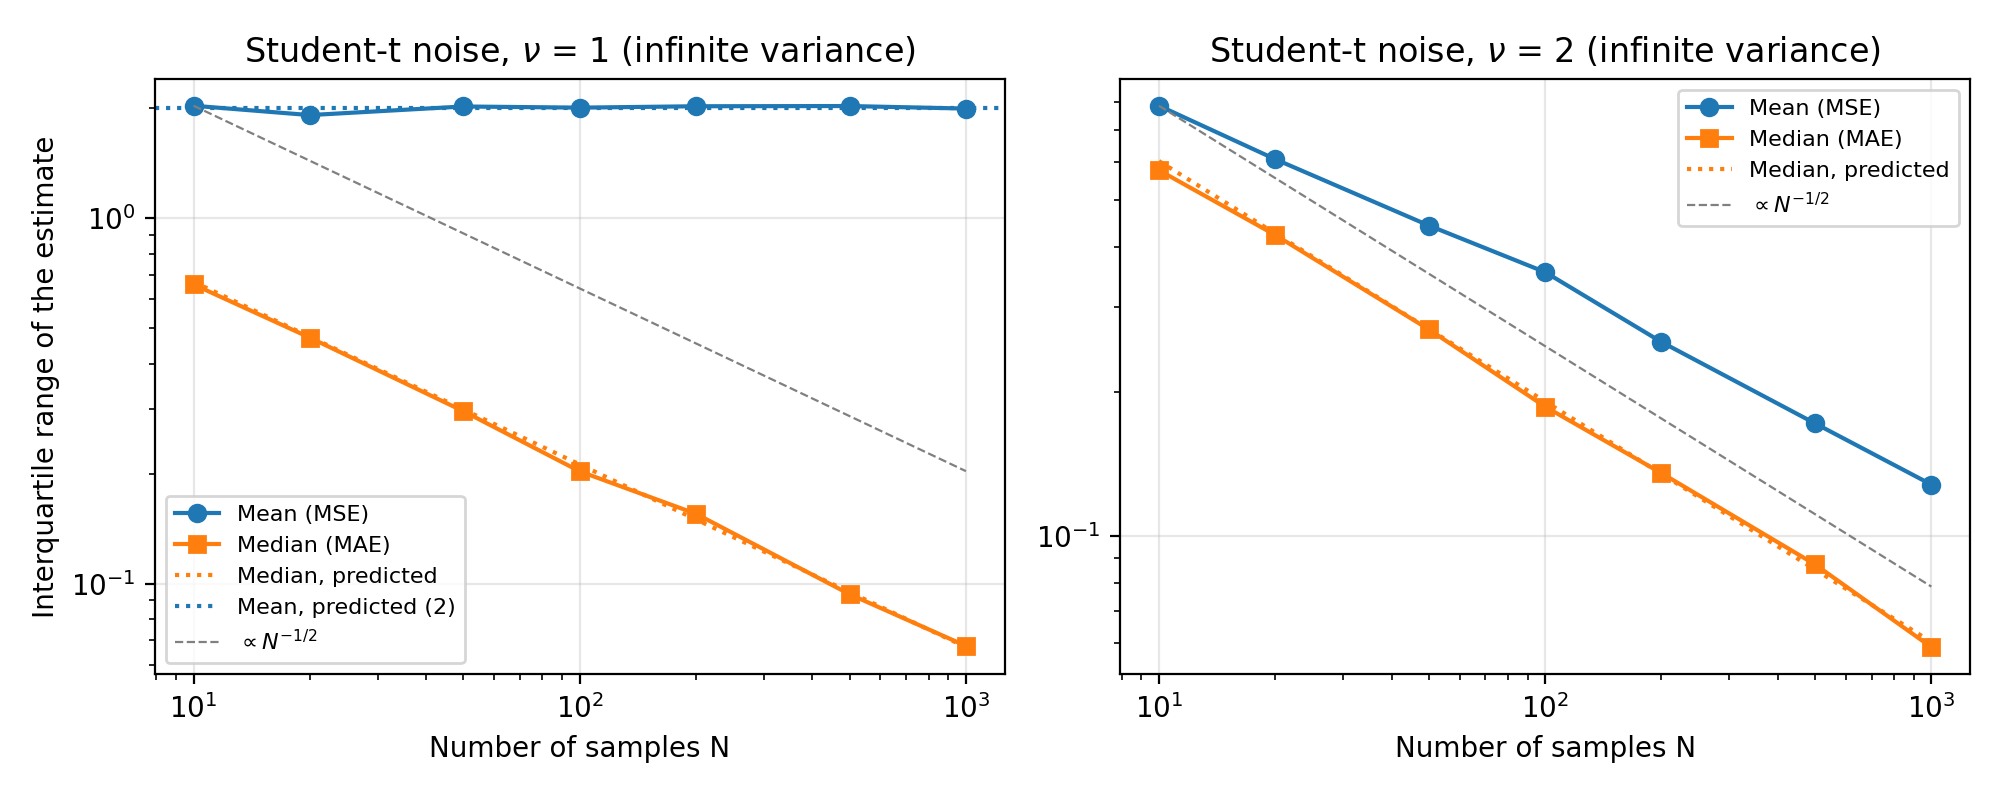
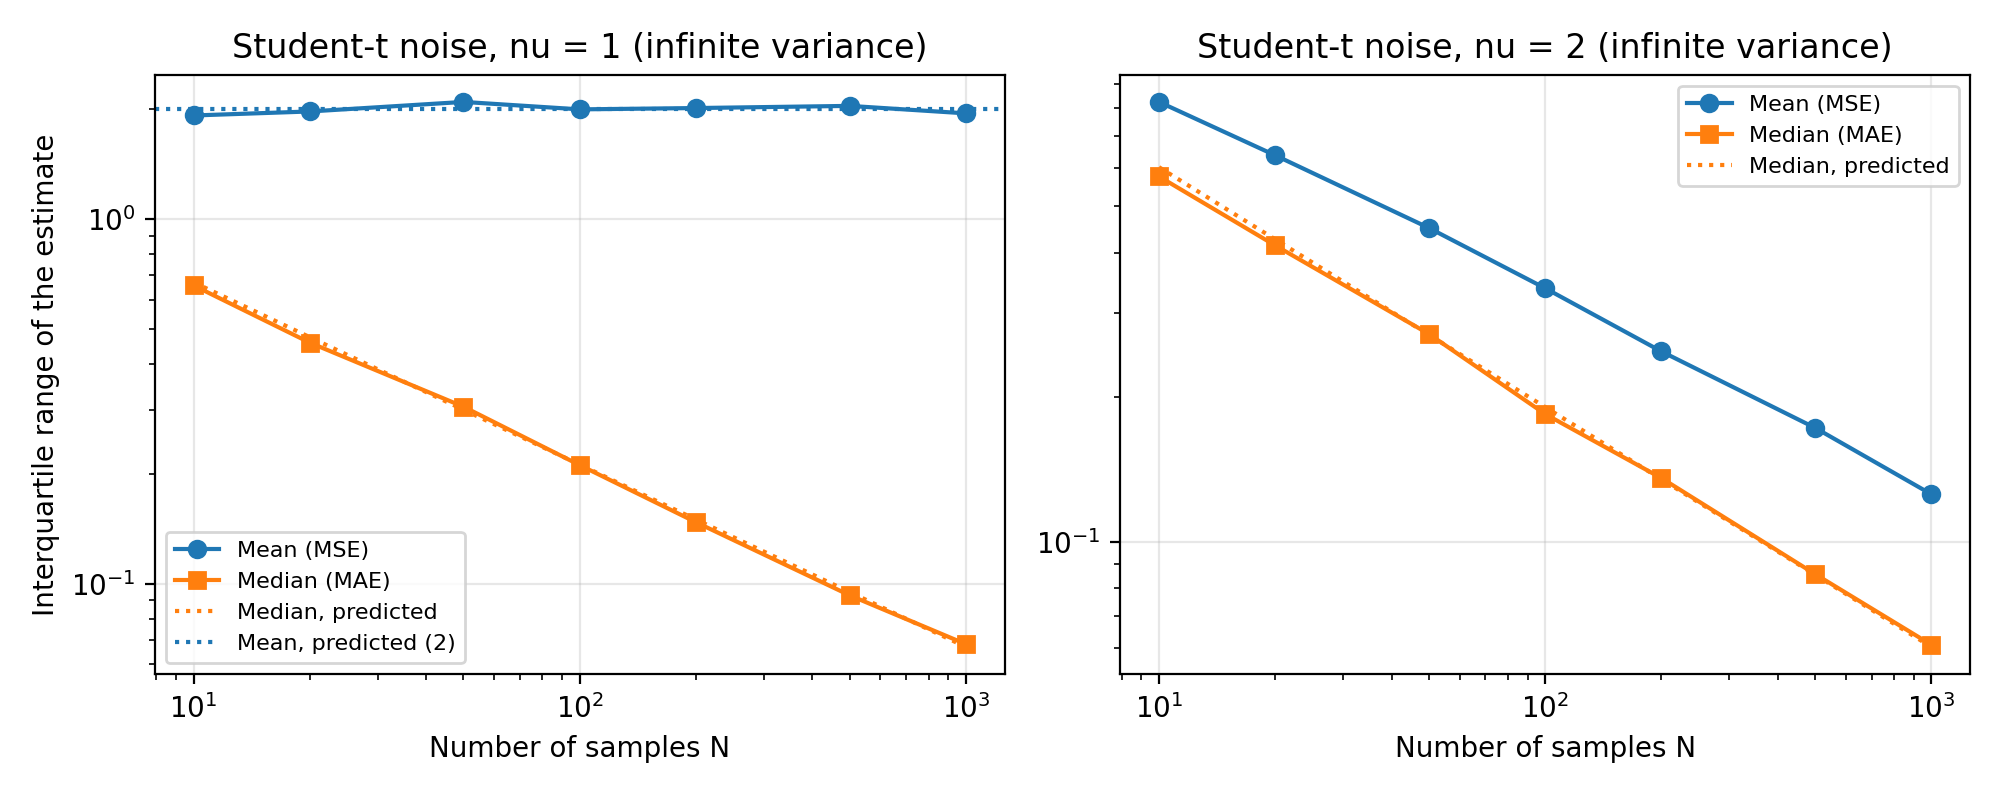
Combine Student-t scripts into sim_C with t-MLE and Cauchy case

diff --git a/sim/sim_C_Student_t.py b/sim/sim_C_Student_t.py
@@ -1,33 +1,24 @@
-# Simulation C: mean vs median under Student-t noise (symmetric, heavy tails)
-# Model is DC under noise: x[n] = A + w[n], w[n] ~ Student-t with nu degrees of freedom (scale 1)
-# The noise is symmetric about zero, so mean and median are both centred on A and only differ in variance.
-# So we use the same efficiency ratio Var/CRLB as in Simulation A.
-#
-# Predictions (all per sample, scale 1):
-#.....Fisher information of one sample: i(nu) = (nu + 1) / (nu + 3), so CRLB = 1 / (N i)
-#.....noise variance = nu / (nu - 2), needs nu > 2, so Var(mean) = nu / ((nu - 2) N)
-#.....density at the centre f0 = Gamma((nu+1)/2) / (sqrt(nu pi) Gamma(nu/2)), so Var(median) ~ 1 / (4 N f0^2)
-#.....hence
-#.........mean ratio   = nu / (nu - 2) * i(nu)
-#.........median ratio = i(nu) / (4 f0^2)
-#.....nu = 1 (Cauchy) and nu = 2 have infinite variance, so the mean is not 1/sqrt(N) accurate any more,
-#.....there we compare the spread (interquartile range) of the estimates instead of Var/CRLB.
+# Authors: Varun Shastry and HARSH070105
+# Simulation C: mean, median and t-MLE under Student-t noise
+# Model is DC under noise w[n] ~ t(nu) with scale 1, which is symmetric with heavier tails than gaussian
+# nu large is gaussian, nu = 1 is Cauchy
+# hence the prediction is (each divided by the CRB, scale 1)
+#.....Fisher information of one sample i = (nu+1)/(nu+3), so CRB = (nu+3)/((nu+1) N)
+#.....mean/CRB   = nu/(nu-2) * i, for nu > 2
+#.....median/CRB = i / (4 f0^2), f0 = gamma((nu+1)/2) / (sqrt(nu pi) gamma(nu/2)) is the density at the centre
+#.....t-MLE/CRB  = 1, the t-MLE is a weighted mean with weights (nu+1)/(nu + (x-A)^2), Lange et al. 1989 eq. (3)
+# for nu <= 2 the noise variance is infinite, so there we compare the interquartile range (IQR) of the estimates
 
-import os
 import numpy as np
 import pandas as pd
 import matplotlib.pyplot as plt
 from scipy.special import gammaln
 from scipy.optimize import brentq
 from scipy.stats import norm
-
-os.makedirs("figures", exist_ok=True)
 np.random.seed(0)
 
-A = 1.0
-trials = 5000
-nus = [3, 5, 10]
-N_values = [10, 20, 50, 100, 200, 500, 1000]
+A = 1.0 # true DC
+trials = 5000 # num-montecarlo trials
 
 def fisher_info(nu):
     return (nu + 1) / (nu + 3)
@@ -42,147 +33,182 @@ def pred_mean(nu):
     return noise_var(nu) * fisher_info(nu)
 
 def pred_median(nu):
-    return fisher_info(nu) / (4 * f_centre(nu) ** 2)
+    return fisher_info(nu) / (4 * f_centre(nu)**2)
 
-def efficiency_ratios(nu, N):
+def t_mle(x, nu):
+    # x has one row per trial, start from the median and repeat the weighted mean
+    A_hat = np.median(x, axis=1)
+    for it in range(50):
+        r = x - A_hat[:, None]
+        weights = (nu + 1) / (nu + r**2)
+        A_hat = np.sum(weights * x, axis=1) / np.sum(weights, axis=1)
+    return A_hat
+
+def efficiency_ratios(nu, N, with_mle=False):
     x = A + np.random.standard_t(nu, size=(trials, N))
-    crlb = 1 / (N * fisher_info(nu))
-    return np.var(np.mean(x, axis=1)) / crlb, np.var(np.median(x, axis=1)) / crlb
+    crb = 1 / (N * fisher_info(nu))
+    r_mean = np.var(np.mean(x, axis=1)) / crb
+    r_median = np.var(np.median(x, axis=1)) / crb
+    r_mle = np.var(t_mle(x, nu)) / crb if with_mle else np.nan
+    return r_mean, r_median, r_mle
 
-# print table @ N=100
+# ---------------- Part 1: the densities ----------------
+w = np.linspace(-6, 6, 1000)
+plt.figure(figsize=(7, 4))
+for nu in [3, 5, 30]:
+    pdf = f_centre(nu) * (1 + w**2 / nu) ** (-(nu + 1) / 2)
+    plt.plot(w, pdf, label="t, nu = %d" % nu)
+plt.plot(w, norm.pdf(w), color="gray", linestyle="--", label="Gaussian N(0, 1)")
+plt.yscale("log")
+plt.ylim(1e-5, 1)
+plt.xlabel("w")
+plt.ylabel("p(w), log scale")
+plt.title("Student-t densities (scale 1)")
+plt.legend()
+plt.grid(alpha=0.3)
+plt.tight_layout()
+plt.savefig("figures/simC_t_density.png", dpi=200)
+print("Saved figures/simC_t_density.png")
+
+# ---------------- Part 2: efficiency against nu, at N = 100 ----------------
 N = 100
+nu_meas = [3, 4, 5, 7, 10, 20, 50]
 rows = []
-for nu in nus:
-    r_mean, r_median = efficiency_ratios(nu, N)
-    rows.append(["Student-t, nu = %g" % nu, "Mean (MSE)", pred_mean(nu), r_mean])
-    rows.append(["Student-t, nu = %g" % nu, "Median (MAE)", pred_median(nu), r_median])
-table = pd.DataFrame(rows, columns=["Noise", "Estimator", "Predicted", "Measured"])
-print("Efficiency ratio Var/CRLB at N =", N, "with", trials, "trials")
+for nu in nu_meas:
+    r_mean, r_median, r_mle = efficiency_ratios(nu, N, with_mle=True)
+    rows.append({"nu": nu,
+                 "mean (pred)": pred_mean(nu), "mean (meas)": r_mean,
+                 "median (pred)": pred_median(nu), "median (meas)": r_median,
+                 "t-MLE (pred)": 1.0, "t-MLE (meas)": r_mle})
+table = pd.DataFrame(rows)
+print("Efficiency ratio Var/CRB under Student-t noise, N =", N, "with", trials, "trials")
 print(table.round(3).to_string(index=False))
-print()
 
-# nu at which mean and median are equally good (asymptotically)
 nu_star = brentq(lambda v: pred_mean(v) - pred_median(v), 3, 5)
-print("Predicted ratios are equal at nu = %.3f: below it the median is better, above it the mean is better" % nu_star)
+print("mean and median equally efficient at nu = %.3f (below it the median wins, above it the mean wins)" % nu_star)
 print()
 
-# how ratios change with N
-sweep = {}
-for nu in nus:
+nu_grid = np.logspace(np.log10(2.05), np.log10(60), 400)
+plt.figure(figsize=(7, 5))
+plt.plot(nu_grid, pred_mean(nu_grid), color="tab:blue", label="Mean (MSE), predicted")
+plt.plot(nu_grid, pred_median(nu_grid), color="tab:orange", label="Median (MAE), predicted")
+plt.plot(table["nu"], table["mean (meas)"], "o", color="tab:blue", label="Mean, measured")
+plt.plot(table["nu"], table["median (meas)"], "s", color="tab:orange", label="Median, measured")
+plt.plot(table["nu"], table["t-MLE (meas)"], "^", color="tab:green", label="t-MLE, measured (predicted 1)")
+plt.axhline(1, color="gray", linewidth=0.8)
+plt.axhline(np.pi / 2, color="gray", linewidth=0.8)
+plt.text(2.15, 0.9, "1 = CRB (and the Gaussian mean)", color="gray")
+plt.text(2.15, np.pi / 2 + 0.03, "pi/2 (Gaussian median)", color="gray")
+plt.axvline(nu_star, color="black", linestyle="--", linewidth=0.8)
+plt.text(nu_star * 1.04, 3.6, "nu* = %.2f" % nu_star)
+plt.xscale("log")
+plt.ylim(0.8, 4)
+plt.xlabel("Degrees of freedom nu (log scale)")
+plt.ylabel("Var/CRB")
+plt.title("Student-t noise: efficiency against the tail heaviness, N = 100")
+plt.legend(loc="upper right", fontsize=8)
+plt.grid(alpha=0.3)
+plt.tight_layout()
+plt.savefig("figures/simC_ratio_vs_nu.png", dpi=200)
+print("Saved figures/simC_ratio_vs_nu.png")
+
+# ---------------- Part 3: how the ratios change with N ----------------
+N_values = [10, 20, 50, 100, 200, 500, 1000]
+nus = [3, 5, 10]
+plt.figure(figsize=(12, 4))
+for j, nu in enumerate(nus):
     mean_list = []
     median_list = []
     for N in N_values:
-        r_mean, r_median = efficiency_ratios(nu, N)
+        r_mean, r_median, _ = efficiency_ratios(nu, N)
         mean_list.append(r_mean)
         median_list.append(r_median)
-    sweep[nu] = (mean_list, median_list)
     df = pd.DataFrame({"N": N_values, "Mean": mean_list, "Median": median_list})
-    print("Efficiency ratio Var/CRLB as N grows, nu = %g (predicted: mean %.3f, median %.3f)"
-          % (nu, pred_mean(nu), pred_median(nu)))
+    print("Var/CRB as N grows, nu = %g (predicted: mean %.3f, median %.3f)" % (nu, pred_mean(nu), pred_median(nu)))
     print(df.round(3).to_string(index=False))
     print()
 
-plt.figure(figsize=(12, 4))
-for j, nu in enumerate(nus):
     plt.subplot(1, 3, j + 1)
-    mean_list, median_list = sweep[nu]
     plt.plot(N_values, mean_list, "o-", color="tab:blue", label="Mean (MSE)")
     plt.plot(N_values, median_list, "s-", color="tab:orange", label="Median (MAE)")
     plt.axhline(pred_mean(nu), color="tab:blue", linewidth=0.9, linestyle=":", label="Predicted (mean)")
     plt.axhline(pred_median(nu), color="tab:orange", linewidth=0.9, linestyle=":", label="Predicted (median)")
-    # predicted values written at the right end of each line
-    plt.text(1300, pred_mean(nu), "%.2f" % pred_mean(nu), va="top", color="tab:blue")
-    plt.text(1300, pred_median(nu), "%.2f" % pred_median(nu), va="bottom", color="tab:orange")
     plt.xscale("log")
-    plt.xlim(8, 2000)
     plt.ylim(0.8, 3.2)
     plt.xlabel("Number of samples N")
     if j == 0:
-        plt.ylabel("Var/CRLB")
-    plt.title(r"Student-t noise, $\nu$ = %g" % nu)
+        plt.ylabel("Var/CRB")
+    plt.title("Student-t noise, nu = %g" % nu)
     plt.legend(loc="upper center", ncol=2, fontsize=7.5)
     plt.grid(alpha=0.3)
 plt.tight_layout()
 plt.savefig("figures/simC_ratio_vs_N.png", dpi=200)
 print("Saved figures/simC_ratio_vs_N.png")
 
-# predicted ratios against nu, with measured values at N = 100
-nu_grid = np.logspace(np.log10(2.05), np.log10(50), 400)
-nu_meas = [3, 4, 5, 7, 10, 20, 50]
-meas_mean = []
-meas_median = []
-for nu in nu_meas:
-    r_mean, r_median = efficiency_ratios(nu, 100)
-    meas_mean.append(r_mean)
-    meas_median.append(r_median)
-
-plt.figure(figsize=(7, 5))
-plt.plot(nu_grid, pred_mean(nu_grid), color="tab:blue", label="Mean, predicted")
-plt.plot(nu_grid, pred_median(nu_grid), color="tab:orange", label="Median, predicted")
-plt.plot(nu_meas, meas_mean, "o", color="tab:blue", label="Mean, measured (N = 100)")
-plt.plot(nu_meas, meas_median, "s", color="tab:orange", label="Median, measured (N = 100)")
-plt.axhline(1, color="gray", linewidth=0.8)
-plt.axhline(np.pi / 2, color="gray", linewidth=0.8)
-plt.text(12, 1, "1 (Gaussian mean)", va="bottom", color="gray")
-plt.text(12, np.pi / 2, r"$\pi/2$ (Gaussian median)", va="bottom", color="gray")
-plt.axvline(nu_star, color="black", linestyle="--", linewidth=0.8)
-plt.text(nu_star * 1.04, 3.6, r"$\nu^*$ = %.2f" % nu_star)
-plt.xscale("log")
-plt.ylim(0.8, 4)
-plt.xlabel(r"Degrees of freedom $\nu$")
-plt.ylabel("Var/CRLB")
-plt.title("Efficiency ratio against the tail heaviness")
-plt.legend(loc="upper right", fontsize=8)
-plt.grid(alpha=0.3)
-plt.tight_layout()
-plt.savefig("figures/simC_ratio_vs_nu.png", dpi=200)
-print("Saved figures/simC_ratio_vs_nu.png")
-print()
-
-# infinite variance: nu = 1 (Cauchy) and nu = 2, compare interquartile range (IQR) of the estimates
-# median: asymptotically normal, so IQR ~ 2 * z_0.75 * 1 / (2 f0 sqrt(N)).
-# mean for nu = 1: the mean of N Cauchy samples is again standard Cauchy, so its IQR stays at 2 for every N.
-nus_inf = [1, 2]
-iqr = {}
-for nu in nus_inf:
+# ---------------- Part 4: infinite variance, nu = 1 (Cauchy) and nu = 2 ----------------
+# Var/CRB is meaningless here, so we use the interquartile range (IQR) of the estimates
+# median: approximately gaussian with std 1/(2 f0 sqrt(N)), so IQR = 2 * 0.6745 * std = 0.6745 / (f0 sqrt(N))
+# mean for nu = 1: the mean of N Cauchy samples is again standard Cauchy, whose IQR is 2, for every N
+plt.figure(figsize=(10, 4))
+for j, nu in enumerate([1, 2]):
     iqr_mean = []
     iqr_median = []
     for N in N_values:
         x = A + np.random.standard_t(nu, size=(trials, N))
-        m = np.mean(x, axis=1)
-        md = np.median(x, axis=1)
-        iqr_mean.append(np.subtract(*np.percentile(m, [75, 25])))
-        iqr_median.append(np.subtract(*np.percentile(md, [75, 25])))
-    iqr[nu] = (iqr_mean, iqr_median)
+        q75, q25 = np.percentile(np.mean(x, axis=1), [75, 25])
+        iqr_mean.append(q75 - q25)
+        q75, q25 = np.percentile(np.median(x, axis=1), [75, 25])
+        iqr_median.append(q75 - q25)
     pred_iqr_median = norm.ppf(0.75) / (f_centre(nu) * np.sqrt(np.array(N_values)))
     df = pd.DataFrame({"N": N_values, "Mean IQR": iqr_mean, "Median IQR": iqr_median,
                        "Median IQR (pred)": pred_iqr_median})
     print("Interquartile range of the estimates, nu = %g (mean predicted: %s)"
-          % (nu, "2 for every N" if nu == 1 else "no closed form"))
+          % (nu, "2 for every N" if nu == 1 else "shrinks, slower than 1/sqrt(N)"))
     print(df.round(3).to_string(index=False))
     print()
 
-plt.figure(figsize=(10, 4))
-Nf = np.array(N_values)
-for j, nu in enumerate(nus_inf):
     plt.subplot(1, 2, j + 1)
-    iqr_mean, iqr_median = iqr[nu]
     plt.plot(N_values, iqr_mean, "o-", color="tab:blue", label="Mean (MSE)")
     plt.plot(N_values, iqr_median, "s-", color="tab:orange", label="Median (MAE)")
-    plt.plot(Nf, norm.ppf(0.75) / (f_centre(nu) * np.sqrt(Nf)), color="tab:orange", linestyle=":",
-             label="Median, predicted")
+    plt.plot(N_values, pred_iqr_median, color="tab:orange", linestyle=":", label="Median, predicted")
     if nu == 1:
         plt.axhline(2, color="tab:blue", linestyle=":", label="Mean, predicted (2)")
-    plt.plot(Nf, iqr_mean[0] * np.sqrt(N_values[0] / Nf), color="gray", linestyle="--",
-             linewidth=0.8, label=r"$\propto N^{-1/2}$")
     plt.xscale("log")
     plt.yscale("log")
     plt.xlabel("Number of samples N")
     if j == 0:
         plt.ylabel("Interquartile range of the estimate")
-    plt.title(r"Student-t noise, $\nu$ = %g (infinite variance)" % nu)
+    plt.title("Student-t noise, nu = %g (infinite variance)" % nu)
     plt.legend(fontsize=8)
     plt.grid(alpha=0.3)
 plt.tight_layout()
 plt.savefig("figures/simC_infinite_variance.png", dpi=200)
 print("Saved figures/simC_infinite_variance.png")
+
+# ---------------- Part 5: one long run of Cauchy samples (nu = 1) ----------------
+# mean and median of the first n samples, for n = 1 to 10000
+np.random.seed(0) # fixed so the same long run is shown every time
+n_max = 10000
+x = A + np.random.standard_cauchy(n_max)
+n_values = np.arange(1, n_max + 1)
+running_mean = np.cumsum(x) / n_values
+running_median = np.zeros(n_max)
+for n in range(1, n_max + 1):
+    running_median[n - 1] = np.median(x[:n])
+print("largest sample in the run: %.0f at n = %d" % (x[np.argmax(np.abs(x))], np.argmax(np.abs(x)) + 1))
+print("mean after %d samples: %.2f, median: %.3f" % (n_max, running_mean[-1], running_median[-1]))
+
+plt.figure(figsize=(7, 4.5))
+plt.plot(n_values, running_mean, label="Mean of first n samples (MSE)")
+plt.plot(n_values, running_median, label="Median of first n samples (MAE)")
+plt.axhline(A, color="black", linestyle="--", label="True A")
+plt.xscale("log")
+plt.ylim(-18, 7)
+plt.xlabel("Number of samples n")
+plt.ylabel("Estimate of A")
+plt.title("Cauchy noise (nu = 1): one long run of samples")
+plt.legend()
+plt.grid(alpha=0.3)
+plt.tight_layout()
+plt.savefig("figures/simC_cauchy_running.png", dpi=200)
+print("Saved figures/simC_cauchy_running.png")
